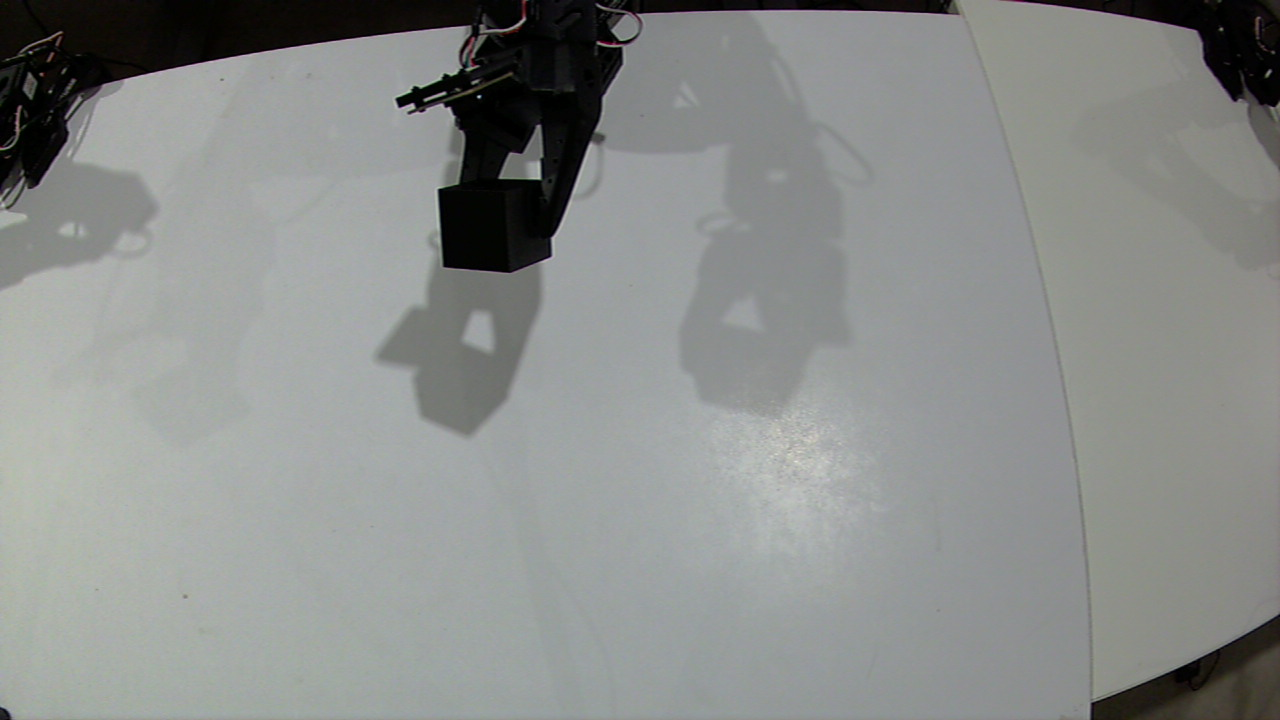
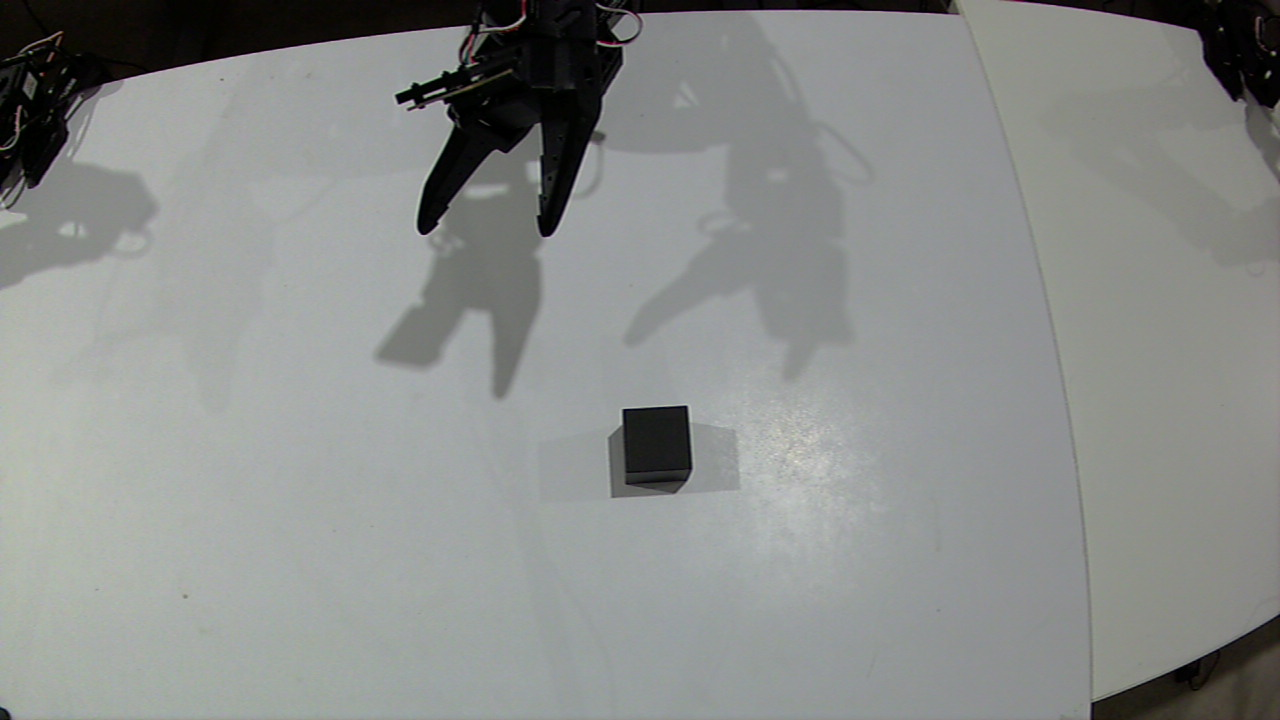
Update tools for arm-007__gpt-6-astra__grasp-cube
{"agent_id": "arm-007__gpt-6-astra__grasp-cube", "designation": "arm-007", "identity_version": 2, "model": "gpt-6-astra", "provider": "codex", "task_definition": {"description": "Start episode, pickup the black cube, bring black cube to home position, confirm successful grasp, stop episode, return object to new position, return home, repeat", "id": "grasp-cube", "success_criteria": ["successful episode coverage across the entire workspace", "achieve at least 50 successful episodes an hour"], "version": 2}, "task_id": "grasp-cube", "task_sha256": "e6c8adbb1562fdc6af3405e2e618046b110e27856c520c9f5cd329c258fb3818", "task_version": 2, "tools_sha256": "3f05a270c16ca1f47326cac65e74345bc96e4d1a54bf3d5bd94cf2defda00af8"}

diff --git a/agents/arm-007__gpt-6-astra__grasp-cube/cube_cycles.py b/agents/arm-007__gpt-6-astra__grasp-cube/cube_cycles.py
@@ -30,14 +30,16 @@ def pose(pan,elbow=20):
 def above(q):return {**q,'shoulder_lift':q['shoulder_lift']-30,'wrist_flex':q['wrist_flex']+30}
 def home(b):move(b,HOME,2.3)
 def grip(b):
- g=c.AdaptiveGrip(b);b.adaptive_grip=g
- g.acquire()
  p=b.read('Present_Position','gripper')
- if not 18<p<35:
-  g.stop();raise RuntimeError('Unexpected seated grasp width: '+str(p))
- # Retain the verified fixed goal during home; home only changes four arm joints.
- g.active=False
- return p
+ for goal in range(int(p)-1,5,-1):
+  c.move(b,{'gripper':goal},.05);time.sleep(.06)
+  actual=b.read('Present_Position','gripper')
+  if actual-goal>1.3:
+   if not 18<actual<35:raise RuntimeError('Unexpected contact width: '+str(actual))
+   b.write('Goal_Position','gripper',23.)
+   time.sleep(.15)
+   return actual
+ raise RuntimeError('No cube contact')
 def held(b):
  img,meta=read_frame('wrist')
  dark=float(np.mean(cv2.cvtColor(img[500:650,730:1030],cv2.COLOR_BGR2GRAY)<65))
@@ -48,7 +50,7 @@ def run(n):
  if Path('tools/cube_recovery_required.json').exists():
   raise RuntimeError('Re-localize cube and validate pickup before clearing tools/cube_recovery_required.json')
  current=json.loads(STATE.read_text()) if STATE.exists() else pose(17)
- grid=[(pan,e) for e in (20,30,40,50,60) for pan in (-35,-20,-5,10,25,40)]
+ grid=[(pan,e) for e in (20,30,40) for pan in (-20,-5,10,25)]
  offset=int(os.environ.get("CUBE_GRID_OFFSET","0"))
  grid=grid[offset:]+grid[:offset]
  active=False
@@ -60,7 +62,7 @@ def run(n):
     move(b,above(current));move(b,current,1.5)
     contact=grip(b)
     move(b,above(current),1.5)
-    # Adaptive controller's stable goal remains unchanged during lift and home.
+    # Retain the seated closing target through lift and home.
     home(b)
     ok,evidence=held(b);snapshot()
     receipt=recording.stop_recording(ok,json.dumps(dict(source_pose=current,contact=contact,home_confirm=evidence)));active=False
@@ -68,7 +70,6 @@ def run(n):
     if not ok:raise RuntimeError('Grasp not verified at home')
     target=pose(*grid[i%len(grid)])
     move(b,above(target));move(b,target,1.5)
-    b.adaptive_grip.release()
     move(b,{'gripper':45},.5)
     current=target;STATE.write_text(json.dumps(current))
     move(b,above(current),1.5);home(b)
